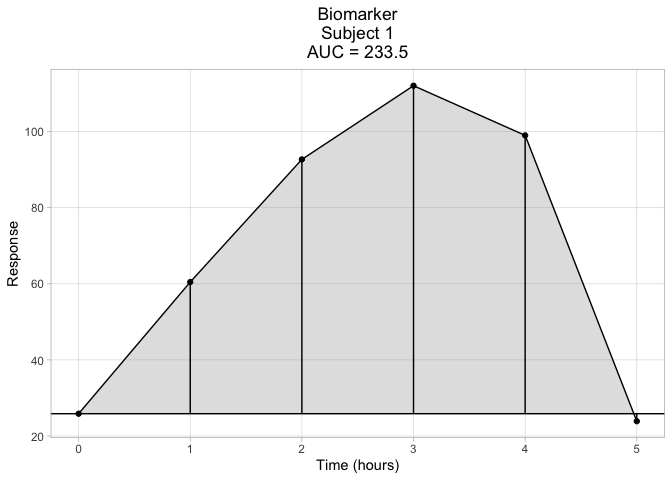
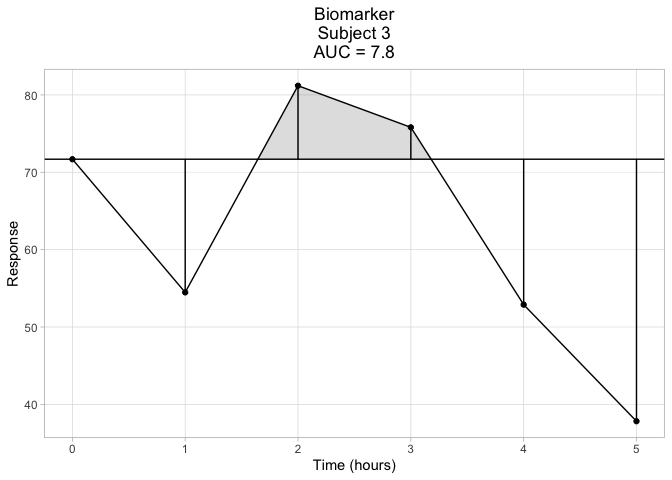
Update README

diff --git a/README.md b/README.md
@@ -3,14 +3,6 @@
 
 # auctime
 
-<!-- badges: start -->
-
-[![Lifecycle:
-experimental](https://img.shields.io/badge/lifecycle-experimental-orange.svg)](https://lifecycle.r-lib.org/articles/stages.html#experimental)
-[![CRAN
-status](https://www.r-pkg.org/badges/version/auctime)](https://CRAN.R-project.org/package=auctime)
-<!-- badges: end -->
-
 The goal of `auctime` is to provide an easy and reproducible way of
 calculating incremental area under the curve calculations (iAUC) for
 biomarkers which have measurements taken over at intervals over time.
@@ -135,13 +127,13 @@ output$input
 ```
 
 ``` r
-# output for subject 1
-output$subjects[[1]]
+# output for subject 3
+output$subjects[[3]]
 #> $AUC
-#> [1] 233.4681
+#> [1] 7.840711
 #> 
 #> $intervalAUC
-#> [1] 47.52680 34.00450 54.95836 61.37644 35.60204
+#> [1] 0.0000000 1.6892595 5.7807034 0.3707482 0.0000000
 #> 
 #> $plot
 ```
